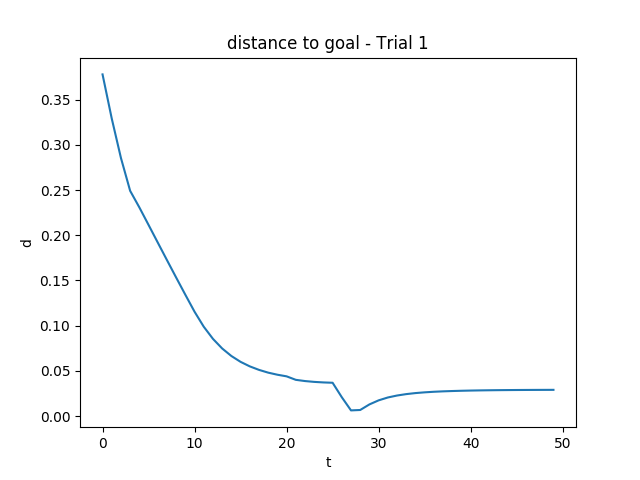
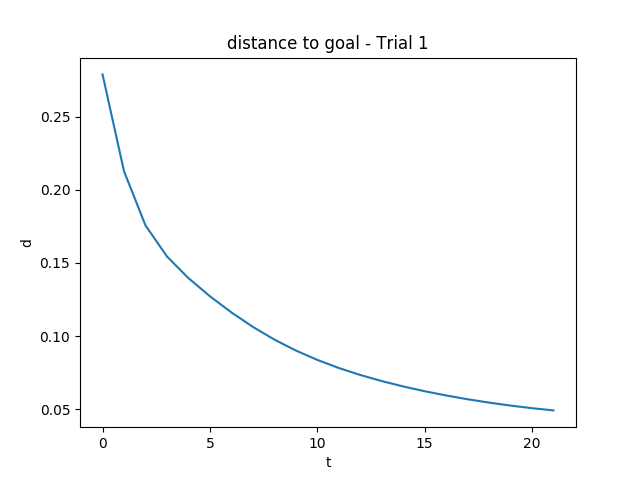
unresponsive + ik

diff --git a/test.py b/test.py
@@ -26,25 +26,45 @@ class EnvWrapper():
         self.observation_space = self.env.observation_space
         self.target=target
         self.distance_threshold=0.01
+        self.q=[0.0,-1.0,0.0,2.0,0.0,0.5,0.0]
 
     def step(self, action):
+        self.q+=action
         qpos = {
-            'robot0:shoulder_pan_joint': action[0],
-            'robot0:shoulder_lift_joint': action[1],
-            'robot0:upperarm_roll_joint': action[2],
-            'robot0:elbow_flex_joint': action[3]
+            'robot0:shoulder_pan_joint': self.q[0],
+            'robot0:shoulder_lift_joint': self.q[1],
+            'robot0:upperarm_roll_joint': self.q[2],
+            'robot0:elbow_flex_joint': self.q[3],
+            'robot0:forearm_roll_joint':self.q[4],
+            'robot0:wrist_flex_joint':self.q[5],
+            'robot0:wrist_roll_joint':self.q[6]
         }
         for name, value in qpos.items():
             self.env.sim.data.set_joint_qpos(name, value)
         self.env.sim.forward()
+        time.sleep(1 / 30)
         ob=self.env._get_obs()
-        return ob['achieved_goal']
+        #print(ob)
+        return np.concatenate((ob['achieved_goal'],self.q),axis=0)
 
     def reset(self):
-        self.env.reset()
-        self.env.goal=self.target
-        ob=self.env._get_obs()
-        return ob['achieved_goal']
+        self.q = [0.0, -1.0, 0.0, 2.0, 0.0, 0.5, 0.0]
+        qpos = {
+            'robot0:shoulder_pan_joint':0.0 ,
+            'robot0:shoulder_lift_joint': -1.0,
+            'robot0:upperarm_roll_joint': 0.0,
+            'robot0:elbow_flex_joint': 2.0,
+            'robot0:forearm_roll_joint':0.0,
+            'robot0:wrist_flex_joint': 0.5,
+            'robot0:wrist_roll_joint': 0.0
+        }
+        for name, value in qpos.items():
+            self.env.sim.data.set_joint_qpos(name, value)
+        self.env.goal = self.target
+        self.env.sim.forward()
+        time.sleep(1 / 30)
+        ob = self.env._get_obs()
+        return np.concatenate((ob['achieved_goal'],self.q),axis=0)
 
     def render(self):
         self.env.render()
@@ -59,21 +79,22 @@ def rollout(env,T, random=False,trial=0):
     Y = []
     x=env.reset()
     tt=[]
+    env.render()
     rewards=[]
     for t in range(T):
         if random:
-            u = env.action_space.sample()
+            u = np.random.rand(7)*0.1-0.05
         else:
             u = pilco.compute_action(x[None, :])[0, :]
         new_x = env.step(u)
         tt.append(t)
-        distance=np.linalg.norm(new_x-env.target)
+        distance=np.linalg.norm(new_x[:3]-env.target)
         rewards.append(distance)
         env.render()
         X.append(np.hstack((x, u)))
         Y.append(new_x-x)
         x=new_x
-        if np.linalg.norm(new_x-env.target) <0.05:
+        if np.linalg.norm(new_x[:3]-env.target) <0.05:
             break
     plt.plot(tt, rewards)
     plt.title("distance to goal - Trial %d" %trial)
@@ -115,6 +136,8 @@ def plot(pilco,X,Y,T,trial):
         axes[i].fill_between(range(len(y_pred_test)),
                          y_pred_test[:, 0] - 2 * np.sqrt(var_pred_test[:, 0]),
                          y_pred_test[:, 0] + 2 * np.sqrt(var_pred_test[:, 0]), alpha=0.3)
+        if i==2: break
+
     plt.savefig("onep%d.png" % trial)
     plt.show()
     m_p = np.zeros((T, state_dim))
@@ -134,6 +157,8 @@ def plot(pilco,X,Y,T,trial):
         axes[i].fill_between(range(T - 1),
                          m_p[0:T - 1, i] - 2 * np.sqrt(S_p[0:T - 1, i, i]),
                          m_p[0:T - 1, i] + 2 * np.sqrt(S_p[0:T - 1, i, i]), alpha=0.2)
+        if i == 2: break
+
     plt.savefig("multistep%d.png" % trial)
     plt.show()
 
@@ -141,19 +166,19 @@ with tf.Session() as sess:
     p_start=time.time()
     target=np.array([1.2,0.38,0.38])
     env = EnvWrapper(target)
-    T=20
+    T=50
     num_basis_functions = 50
-    max_action = 1.0
+    max_action = 0.1
     time_on_real_robot = 0
     X,Y,t=rollout(env,T,random=True,trial=0)
     time_on_real_robot += t
     state_dim = Y.shape[1]
     control_dim = X.shape[1] - Y.shape[1]
     controller = RbfController(state_dim,control_dim, num_basis_functions, max_action)
-    reward = ExponentialReward(state_dim,t=target)
+    reward = ExponentialReward(3,t=target)
     pilco=PILCO(X,Y,controller=controller,reward=reward)
     plot(pilco,X,Y,T,0)
-    n=6
+    n=4
     t_model=0
     t_policy=0
     for i in range(1,n):
@@ -171,7 +196,9 @@ with tf.Session() as sess:
         time_on_real_robot += t
         plot(pilco,X_,Y_,T,i)
         X=np.vstack((X,X_[:T, :]))
+        X=X[:2*T]
         Y=np.vstack((Y,Y_[:T, :]))
+        Y=Y[:2*T]
         pilco.mgpr.set_XY(X,Y)
     print("t_robot= %.2f s" %time_on_real_robot)
     print("t_model= %.2f s" %t_model)

diff --git a/unresponsive.py b/unresponsive.py
@@ -26,19 +26,45 @@ class EnvWrapper():
         self.observation_space = self.env.observation_space
         self.target=target
         self.distance_threshold=0.01
+        self.q=[0.0,-1.0,0.0,2.0,0.0,0.5,0.0]
 
     def step(self, action):
-        print(action)
-        action[0]=0.0
-        print(action)
-        ob, r, done, _ = self.env.step(action)
-        return ob['achieved_goal'], r, done, {}
+        self.q+=action
+        qpos = {
+            'robot0:shoulder_pan_joint': self.q[0],
+            'robot0:shoulder_lift_joint': self.q[1],
+            'robot0:upperarm_roll_joint': self.q[2],
+            'robot0:elbow_flex_joint': self.q[3]*0.0,
+            'robot0:forearm_roll_joint':self.q[4],
+            'robot0:wrist_flex_joint':self.q[5],
+            'robot0:wrist_roll_joint':self.q[6]
+        }
+        for name, value in qpos.items():
+            self.env.sim.data.set_joint_qpos(name, value)
+        self.env.sim.forward()
+        time.sleep(1 / 30)
+        ob=self.env._get_obs()
+        #print(ob)
+        return np.concatenate((ob['achieved_goal'],self.q),axis=0)
 
     def reset(self):
-        self.env.reset()
-        self.env.goal=self.target
-        ob=self.env._get_obs()
-        return ob['achieved_goal']
+        self.q = [0.0, -1.0, 0.0, 2.0, 0.0, 0.5, 0.0]
+        qpos = {
+            'robot0:shoulder_pan_joint':0.0 ,
+            'robot0:shoulder_lift_joint': -1.0,
+            'robot0:upperarm_roll_joint': 0.0,
+            'robot0:elbow_flex_joint': 2.0,
+            'robot0:forearm_roll_joint':0.0,
+            'robot0:wrist_flex_joint': 0.5,
+            'robot0:wrist_roll_joint': 0.0
+        }
+        for name, value in qpos.items():
+            self.env.sim.data.set_joint_qpos(name, value)
+        self.env.goal = self.target
+        self.env.sim.forward()
+        time.sleep(1 / 30)
+        ob = self.env._get_obs()
+        return np.concatenate((ob['achieved_goal'],self.q),axis=0)
 
     def render(self):
         self.env.render()
@@ -53,21 +79,22 @@ def rollout(env,T, random=False,trial=0):
     Y = []
     x=env.reset()
     tt=[]
+    env.render()
     rewards=[]
     for t in range(T):
         if random:
-            u = env.action_space.sample()
+            u = np.random.rand(7)*0.1-0.05
         else:
             u = pilco.compute_action(x[None, :])[0, :]
-        new_x, r, done, _ = env.step(u)
+        new_x = env.step(u)
         tt.append(t)
-        distance=np.linalg.norm(new_x-env.target)
+        distance=np.linalg.norm(new_x[:3]-env.target)
         rewards.append(distance)
         env.render()
         X.append(np.hstack((x, u)))
         Y.append(new_x-x)
         x=new_x
-        if done:
+        if np.linalg.norm(new_x[:3]-env.target) <0.05:
             break
     plt.plot(tt, rewards)
     plt.title("distance to goal - Trial %d" %trial)
@@ -109,6 +136,8 @@ def plot(pilco,X,Y,T,trial):
         axes[i].fill_between(range(len(y_pred_test)),
                          y_pred_test[:, 0] - 2 * np.sqrt(var_pred_test[:, 0]),
                          y_pred_test[:, 0] + 2 * np.sqrt(var_pred_test[:, 0]), alpha=0.3)
+        if i==2: break
+
     plt.savefig("onep%d.png" % trial)
     plt.show()
     m_p = np.zeros((T, state_dim))
@@ -128,6 +157,8 @@ def plot(pilco,X,Y,T,trial):
         axes[i].fill_between(range(T - 1),
                          m_p[0:T - 1, i] - 2 * np.sqrt(S_p[0:T - 1, i, i]),
                          m_p[0:T - 1, i] + 2 * np.sqrt(S_p[0:T - 1, i, i]), alpha=0.2)
+        if i == 2: break
+
     plt.savefig("multistep%d.png" % trial)
     plt.show()
 
@@ -135,16 +166,16 @@ with tf.Session() as sess:
     p_start=time.time()
     target=np.array([1.2,0.38,0.38])
     env = EnvWrapper(target)
-    T=100
+    T=50
     num_basis_functions = 50
-    max_action = 2.0
+    max_action = 0.1
     time_on_real_robot = 0
     X,Y,t=rollout(env,T,random=True,trial=0)
     time_on_real_robot += t
     state_dim = Y.shape[1]
     control_dim = X.shape[1] - Y.shape[1]
     controller = RbfController(state_dim,control_dim, num_basis_functions, max_action)
-    reward = ExponentialReward(state_dim,t=target)
+    reward = ExponentialReward(3,t=target)
     pilco=PILCO(X,Y,controller=controller,reward=reward)
     plot(pilco,X,Y,T,0)
     n=4
@@ -165,7 +196,9 @@ with tf.Session() as sess:
         time_on_real_robot += t
         plot(pilco,X_,Y_,T,i)
         X=np.vstack((X,X_[:T, :]))
+        X=X[:2*T]
         Y=np.vstack((Y,Y_[:T, :]))
+        Y=Y[:2*T]
         pilco.mgpr.set_XY(X,Y)
     print("t_robot= %.2f s" %time_on_real_robot)
     print("t_model= %.2f s" %t_model)

diff --git a/reward.py b/reward.py
@@ -40,6 +40,8 @@ class ExponentialReward(Reward):
         Output M : [1, 1]
         Output S  : [1, 1]
         '''
+        m=m[:,:3]
+        s=s[:3,:3]
 
         SW = s @ self.W
 
@@ -60,24 +62,4 @@ class ExponentialReward(Reward):
         sR = r2 - muR @ muR
         muR.set_shape([1, 1])
         sR.set_shape([1, 1])
-        return muR, sR
-
-class CombinedRewards(Reward):
-    def __init__(self, state_dim, rewards=[], coefs=None):
-        Reward.__init__(self)
-        self.state_dim = state_dim
-        self.base_rewards = rewards
-        if coefs is not None:
-            self.coefs = coefs
-        else:
-            self.coefs = np.ones(len(rewards))
-
-    @params_as_tensors
-    def compute_reward(self, m, s):
-        muR = 0
-        sR = 0
-        for c,r in enumerate(self.base_rewards):
-            tmp1, tmp2 = r.compute_reward(m, s)
-            muR += self.coefs[c] * tmp1
-            sR += self.coefs[c]**2 * tmp2
         return muR, sR
